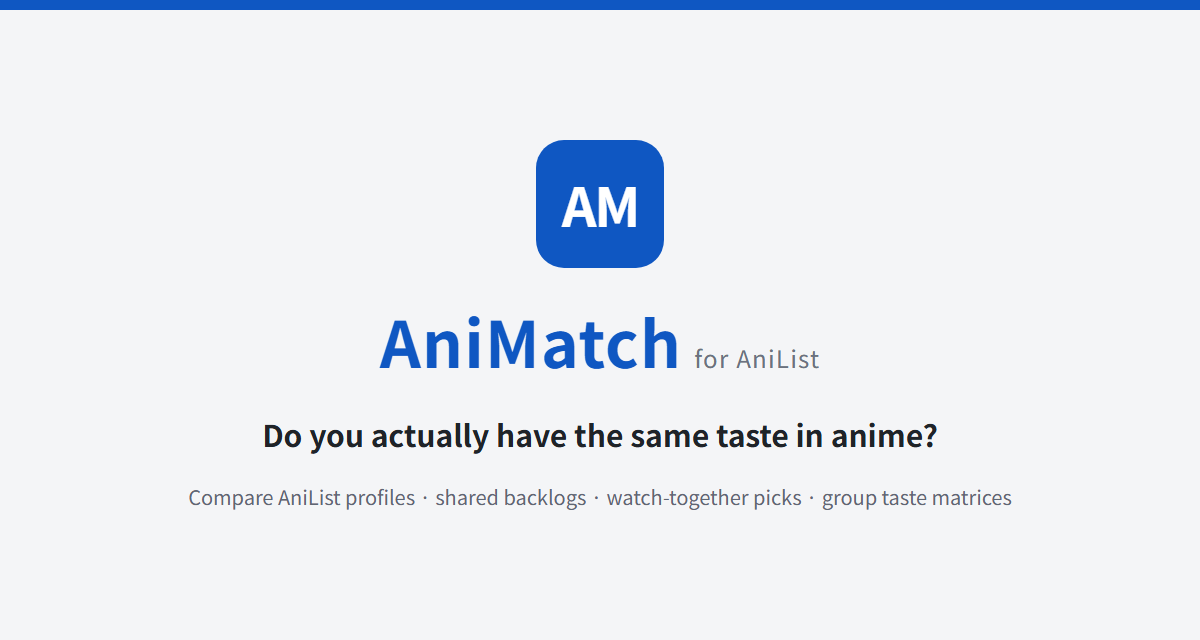
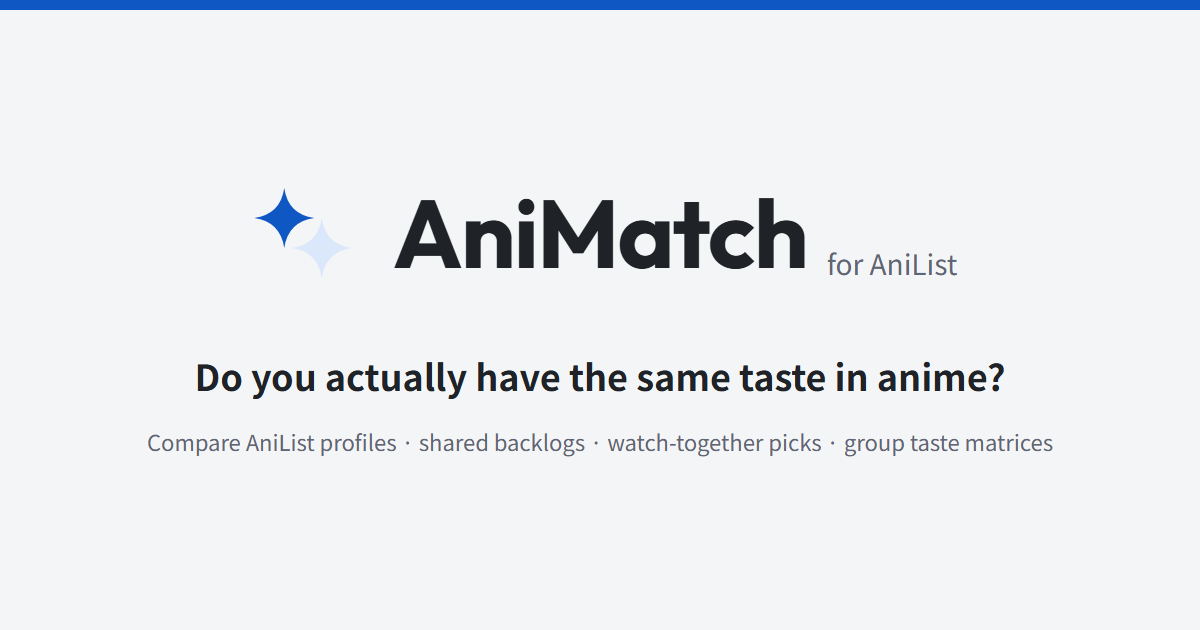
feat(brand): replace the AM badge with the twin-stars mark
The desktop header, mobile header and share card show the new mark,
with the wordmark in Outfit Bold ink. Mark colors come from new
--color-brand-star tokens so dark mode uses the design's dark variant.
Outfit loads subset to the letters of "AniMatch". Favicon, app icons,
Apple touch icon and the Open Graph image are regenerated.

diff --git a/src/app/logic/share-card.ts b/src/app/logic/share-card.ts
@@ -2,6 +2,7 @@
 // tokens so it matches the user's current theme (light or dark).
 
 import { SITE_URL } from '../anilist.config';
+import { MARK_BACK_STAR, MARK_FRONT_STAR } from '../ui/brand-mark';
 import { ComparisonView } from './comparison-engine';
 
 const W = 1200;
@@ -72,6 +73,7 @@ export async function renderShareCard(view: ComparisonView, scoreHint: string): 
   await document.fonts.ready;
   await Promise.allSettled([
     document.fonts.load('700 120px "Noto Sans JP"'),
+    document.fonts.load('700 34px Outfit', 'AniMatch'),
     document.fonts.load('400 24px "Noto Sans JP"'),
   ]);
 
@@ -108,22 +110,28 @@ export async function renderShareCard(view: ComparisonView, scoreHint: string): 
   roundRect(ctx, 40, 44, W - 80, H - 88, 14);
   ctx.fill();
 
-  // brand: AM mark + wordmark
-  ctx.fillStyle = primary;
-  roundRect(ctx, 80, 84, 56, 56, 13);
-  ctx.fill();
-  ctx.fillStyle = '#ffffff';
-  ctx.font = '700 24px "Noto Sans JP", sans-serif';
-  ctx.textAlign = 'center';
-  ctx.textBaseline = 'middle';
-  ctx.fillText('AM', 108, 114);
+  // brand: twin-stars mark + wordmark, proportioned like docs/brand/lockup.svg
+  const markSize = 44;
+  ctx.save();
+  ctx.translate(80, 114 - markSize / 2);
+  ctx.scale(markSize / 64, markSize / 64);
+  ctx.fillStyle = token('--color-brand-star-tint') || '#dbe8fb';
+  ctx.fill(new Path2D(MARK_BACK_STAR));
+  ctx.fillStyle = token('--color-brand-star') || '#0f57c2';
+  ctx.fill(new Path2D(MARK_FRONT_STAR));
+  ctx.restore();
   ctx.textAlign = 'left';
-  ctx.fillStyle = primary;
-  ctx.font = '700 34px "Noto Sans JP", sans-serif';
-  ctx.fillText('AniMatch', 152, 114);
+  ctx.textBaseline = 'alphabetic';
+  ctx.fillStyle = text;
+  ctx.font = '700 34px Outfit, "Noto Sans JP", sans-serif';
+  ctx.letterSpacing = '-0.68px';
+  ctx.fillText('AniMatch', 80 + markSize + 13, 114 + 34 * 0.37);
+  const wordmarkEnd = 80 + markSize + 13 + ctx.measureText('AniMatch').width;
+  ctx.letterSpacing = '0px';
+  ctx.textBaseline = 'middle';
   ctx.fillStyle = muted;
   ctx.font = '400 18px "Noto Sans JP", sans-serif';
-  ctx.fillText('for AniList', 318, 118);
+  ctx.fillText('for AniList', wordmarkEnd + 10, 118);
 
   // users: avatar A  nameA × nameB  avatar B
   const avatarSize = 76;

diff --git a/src/app/ui/global-header.ts b/src/app/ui/global-header.ts
@@ -1,14 +1,15 @@
 import { Component, input } from '@angular/core';
 import { RouterLink } from '@angular/router';
+import { HkBrandMark } from './brand-mark';
 
 @Component({
   selector: 'hk-global-header',
-  imports: [RouterLink],
+  imports: [RouterLink, HkBrandMark],
   template: `
     <header class="header">
       <div class="inner">
         <a routerLink="/" class="brand hk-link-quiet">
-          <span class="logo-mark" aria-hidden="true">AM</span>
+          <hk-brand-mark [size]="30" />
           <span class="wordmark">{{ brand() }}</span>
           @if (tagline(); as t) {
             <span class="tagline">{{ t }}</span>
@@ -29,28 +30,14 @@ import { RouterLink } from '@angular/router';
       gap: 20px;
     }
     .brand { display: flex; align-items: center; gap: 8px; text-decoration: none; white-space: nowrap; }
-    .logo-mark {
-      display: inline-flex;
-      align-items: center;
-      justify-content: center;
-      width: 30px;
-      height: 30px;
-      border-radius: 7px;
-      background: var(--color-primary);
-      color: #fff;
-      font-size: 13px;
-      font-weight: 700;
-      letter-spacing: -0.02em;
-      line-height: 1;
-      flex: none;
-    }
     .tagline { align-self: flex-end; margin-bottom: 3px; }
     .wordmark {
+      font-family: 'Outfit', sans-serif;
       font-size: 24px;
       font-weight: 700;
-      color: var(--color-primary);
-      letter-spacing: 0.02em;
-      font-feature-settings: 'palt';
+      line-height: 1;
+      color: var(--color-text);
+      letter-spacing: -0.02em;
     }
     .tagline { font-size: var(--text-xs); color: var(--color-text-muted); }
     .middle { flex: 1; min-width: 0; }

diff --git a/src/app/ui/brand-mark.ts b/src/app/ui/brand-mark.ts
@@ -1,0 +1,24 @@
+import { Component, input } from '@angular/core';
+
+/** Star paths for the twin-stars mark (64x64 viewBox), shared with the share card. */
+export const MARK_FRONT_STAR = 'M22 8 Q24 22 38 24 Q24 26 22 40 Q20 26 6 24 Q20 22 22 8 Z';
+export const MARK_BACK_STAR = 'M42 24 Q44 38 58 40 Q44 42 42 56 Q40 42 26 40 Q40 38 42 24 Z';
+
+/** The AniMatch twin-stars mark; colors follow the theme via --color-brand-star*. */
+@Component({
+  selector: 'hk-brand-mark',
+  template: `
+    <svg [attr.width]="size()" [attr.height]="size()" viewBox="0 0 64 64" fill="none" aria-hidden="true">
+      <path [attr.d]="back" fill="var(--color-brand-star-tint)" />
+      <path [attr.d]="front" fill="var(--color-brand-star)" />
+    </svg>
+  `,
+  styles: `
+    :host { display: inline-flex; flex: none; }
+  `,
+})
+export class HkBrandMark {
+  readonly size = input(32);
+  protected readonly front = MARK_FRONT_STAR;
+  protected readonly back = MARK_BACK_STAR;
+}

diff --git a/src/styles/tokens/colors.css b/src/styles/tokens/colors.css
@@ -21,6 +21,8 @@
 --color-new:var(--red-600);--color-sale:var(--red-600);--color-ranking:var(--orange-600);--color-ranking-gold:#8a6508;--color-ranking-silver:#6a707d;--color-ranking-bronze:#9a6a43;
 --color-focus:#0f57c2;--color-selection:var(--blue-100);
 --color-header:var(--gray-900);--color-nav-active:var(--blue-700);
+/* brand mark: twin stars (docs/brand) */
+--color-brand-star:#0f57c2;--color-brand-star-tint:#dbe8fb;
 color-scheme:light;
 }
 
@@ -41,6 +43,7 @@ color-scheme:dark;
 --color-link:#79a8f2;--color-link-hover:#9dbff6;--color-link-visited:var(--purple-600);
 --color-primary:#2a63c4;--color-primary-hover:#3672d4;--color-primary-active:#1f56b8;--color-primary-subtle:var(--blue-50);
 --color-focus:#79a8f2;--color-selection:#2a3f66;
+--color-brand-star:#dbe8fb;--color-brand-star-tint:#454b56;
 --shadow-raised:0 1px 2px rgba(0,0,0,.4);
 --shadow-overlay:0 2px 8px rgba(0,0,0,.5);
 --shadow-modal:0 4px 20px rgba(0,0,0,.6);

diff --git a/src/app/app.ts b/src/app/app.ts
@@ -6,6 +6,7 @@ import { AnilistService, AnilistUserHit } from './api/anilist.service';
 import { AuthService } from './api/auth.service';
 import { SeoService } from './seo.service';
 import { ThemeService } from './theme.service';
+import { HkBrandMark } from './ui/brand-mark';
 import { HkGlobalHeader } from './ui/global-header';
 import { HkGlobalNav } from './ui/global-nav';
 import { HkSearchInput } from './ui/search-input';
@@ -14,7 +15,7 @@ import { NAV_ITEMS, UTIL_LEFT } from './data/animatch-data';
 
 @Component({
   selector: 'app-root',
-  imports: [RouterOutlet, RouterLink, RouterLinkActive, HkGlobalHeader, HkGlobalNav, HkSearchInput, HkUtilityBar],
+  imports: [RouterOutlet, RouterLink, RouterLinkActive, HkBrandMark, HkGlobalHeader, HkGlobalNav, HkSearchInput, HkUtilityBar],
   templateUrl: './app.html',
   styleUrl: './app.css',
   host: { '(document:click)': 'onDocumentClick($event)' },

diff --git a/src/app/app.css b/src/app/app.css
@@ -83,22 +83,12 @@
   text-decoration: none;
   display: inline-flex;
   align-items: center;
-  gap: 7px;
+  gap: 6px;
 }
-.logo-mark {
-  display: inline-flex;
-  align-items: center;
-  justify-content: center;
-  width: 26px;
-  height: 26px;
-  border-radius: 6px;
-  background: var(--color-primary);
-  color: #fff;
-  font-size: 11px;
-  font-weight: 700;
-  letter-spacing: -0.02em;
+.m-wordmark {
+  font-family: 'Outfit', sans-serif;
   line-height: 1;
-  flex: none;
+  letter-spacing: -0.02em;
 }
 .m-tagline { font-size: 11px; color: var(--color-text-muted); }
 .m-theme {

diff --git a/src/index.html b/src/index.html
@@ -43,6 +43,8 @@
   <link rel="preconnect" href="https://fonts.googleapis.com">
   <link rel="preconnect" href="https://fonts.gstatic.com" crossorigin>
   <link href="https://fonts.googleapis.com/css2?family=Noto+Sans+JP:wght@400;700&display=swap" rel="stylesheet">
+  <!-- wordmark only: Outfit Bold subset to the letters of "AniMatch" -->
+  <link href="https://fonts.googleapis.com/css2?family=Outfit:wght@700&text=AniMatch&display=swap" rel="stylesheet">
 
   <script type="application/ld+json">
   {

diff --git a/src/app/app.html b/src/app/app.html
@@ -37,8 +37,8 @@
   <div class="mobile-only">
     <div class="mobile-header">
       <a routerLink="/" class="m-brand">
-        <span class="logo-mark" aria-hidden="true">AM</span>
-        AniMatch
+        <hk-brand-mark [size]="22" />
+        <span class="m-wordmark">AniMatch</span>
       </a>
       <span class="m-tagline">for AniList</span>
       <button
